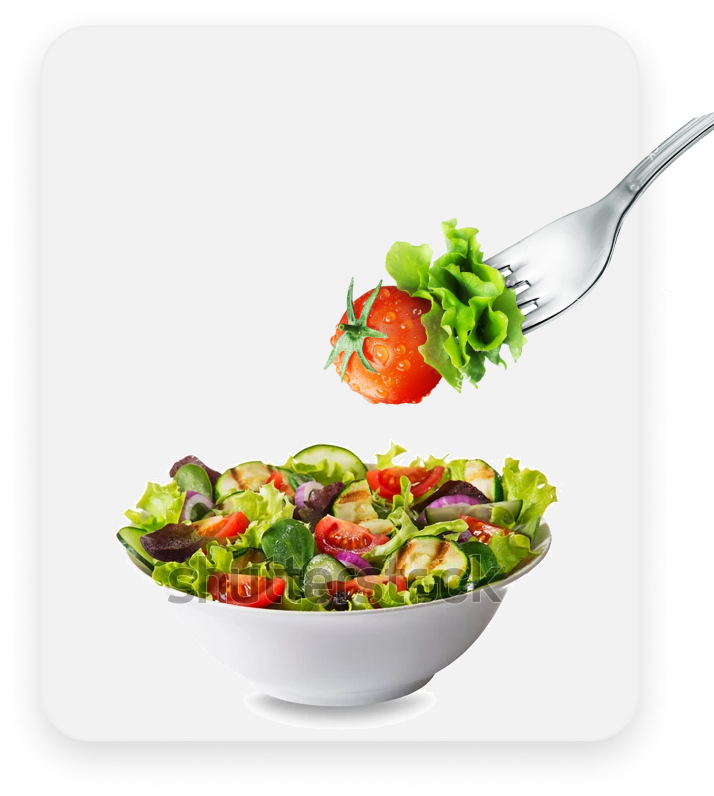
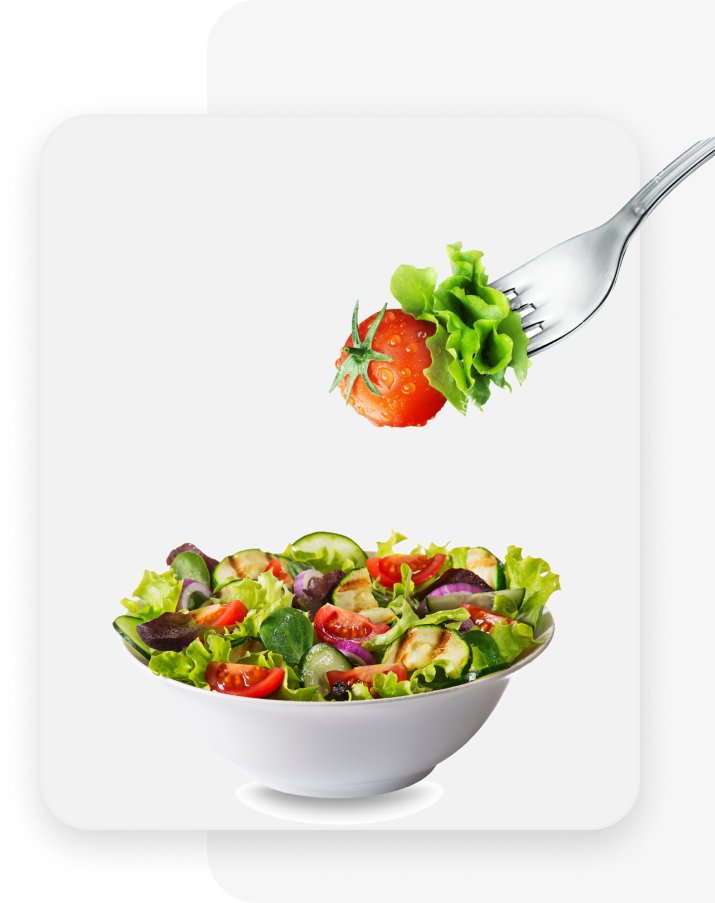
第二專欄文章，再改改背景

diff --git a/HP_col.html b/HP_col.html
@@ -9,103 +9,112 @@
 </head>
 <style>
     *{
-        border: 1px solid grey;
+        /* border: 1px solid #f2f2f2; */
     }
     body {
         height: 2000px;
         margin-top: 100px;
     }
-/* ---------- 文章1 ---------- */
+/* ---------- 1st文章 ---------- */
     .article1Warp{
-        display: flex;
-        justify-content: center;
-        position: relative;
-        width: 100%;
-        height: 1000px;
-
+        height: 50em;
     }
-
+        /* ---------- 1st文章_文字 ---------- */
     .hp_col_dec1Wrap{
         text-align: right;
+        margin: auto;
     }
+        /* ---------- 1st文章＿圖片 ---------- */
 
-    .hp_col_bgc1{
-        position: absolute;
-        right: 0;
-        bottom: 150px;
-        z-index: -1;
-    }
-
+    
     .hp_col_img1{
         position: absolute;
         right: 0;
-
+        margin-right: 0;
+        z-index: -1;
+        vertical-align: middle;
+    }
+    .hp_col_img1 img{
+        width: 100%;
+        max-height: 50em;
     }
 
+
+
 /* ---------- 文章2 ---------- */
-.article2Wrap{
-    display: flex;
-    justify-content: space-around;
-}
 .hp_col_img2Wrap img{
 width: 100%;
+max-width: 55em;
 }
 
-.hp_col_bgc2{
-    position: absolute;
-    left:0;
-    z-index: -1;
+.hp_col_img2Wrap .cardTxt {
+    background-color: #FFFCFC;
+    border-radius: 20px;
+    position: relative;
+    padding: 10px;
+    bottom: 40%;
+    left:40%;
+    max-width: 250px;
+    /* border: 1px solid grey; */
 }
-.hp_col_img2{
-    position: absolute;
-    left:100px;
+
+.hp_col_img2Wrap .cardTxt p{
+    margin: 0;
 }
+.article2Wrap .moreBtn{
+    margin: auto;
+
+}
+
 
 </style>
 
 <body>
-    <div class="HP_col">
- <!-------- 文章１-------->
-        <div class="article1Warp">
+    <div class="HP_col container-fluid">
+ <!-------- 1st 文章 -------->
+        <div class="article1Warp row">
 
         <!-------- 文章1__文字 -------->
-            <div class="hp_col_dec1Wrap">
+            <div class="hp_col_dec1Wrap col-7">
                 <p>首頁 / 聰明飲食</p>
-                  <h5>防疫在家最怕久坐不動！<br>
+                  <h1>防疫在家最怕久坐不動！<br>
                     注意飲食 三多三少 <br>
                     肥胖不上身
-                </h5>
+                </h1>
 
                 <p>by食力編輯部</p>
-                <button>完整文章</button>
+                <button type="button" class="btn btn-outline-success">完整文章</button>
             </div>
         <!-------- 文章1__圖片 -------->
-            <div class="hp_col_img1Wrap">
-                <div class="hp_col_bgc1"><img src="./img/hp_col_bgc1-2.png" alt=""></div>
-                <div class="hp_col_img1"><img src="./img/hp_col_img1-2.png" alt=""></div>
+            <div class="hp_col_img1Wrap col">
+                <div class="hp_col_img1"><img src="./img//hp_col_img1-2.png" alt=""></div>
             </div>
 
         </div>
-<!-------- 文章2 -------->
-        <div class="article2Wrap">
 
-        <!-------- 文章2__圖片 -------->
-            <div class="hp_col_img2Wrap">
-                <div class="hp_col_bgc2"><img src="./img/hp_col_bgc2-2.png" alt=""></div>
-                <div class="hp_col_img2"><img src="./img/hp_col_img2-2.png" alt=""></div>
-            </div>
-
-        <!-------- 文章2__文字 -------->
-            <div class="hp_col_dec2Wrap">
-                <h6>Most<br> Popular</h6>
+ <!-------- 2nd文章 -------->    
+ <div class="article2Wrap row">
+    <!-------- 文章2__圖片 -------->
+        <div class="hp_col_img2Wrap col">
+            <div><img src="./img/hp_col_img2-2.png" alt=""></div>
+            <div class="cardTxt">
+                <p>聰明飲食</p>
+                <h6>從歐美名人圈紅到台灣的康普茶，到底是什麼？  </h6>
 
             </div>
-            <div>
-                <span>more</span><img src="./img/hp_col_moreIcon.png" alt="">
-            </div>
-
-
         </div>
+
+    <!-------- 文章2__文字 -------->
+        <div class="hp_col_dec2Wrap col-3">
+            <h1>Most<br> Popular</h1>
+        </div>
+        <div class="col-3 moreBtn">
+            <span>more &ensp;</span><img src="./img/hp_col_moreIcon.png" alt="">
+        </div>
+        <div class="col-1"></div>
+
+</div>
+
 
     </div>
 

diff --git a/HP_shop.html b/HP_shop.html
@@ -25,13 +25,16 @@
     
     .fOrange{ color:#FB6107;}
     .fOrangeBgc{ background-color:#FB6107;}
+
+    .fwhite{color:#f2f2f2;}
+    .fwhiteBgc{background-color: #f2f2f2;}
     
     
     .hpShopCatWrap{
         margin-bottom: 50px;
     }
 
-/*---------- 首頁＿背景圖 ----------*/
+/*---------- 首頁＿商城＿背景圖 ----------*/
     .hp_bgcWrap{
         position: fixed;
         width: 100%;
@@ -58,7 +61,7 @@
         left: 0;
     }
 
-/*---------- 首頁＿商城＿圖片 ----------*/
+        /*----- 首頁＿商城＿圖片 -----*/
 
 .hpShopCatImg{
     text-align: center;
@@ -96,7 +99,7 @@
     }
     
 
-/*---------- 首頁＿商城＿種類＿文字 ----------*/
+        /*----- 首頁＿商城＿種類＿文字 -----*/
     .hpShopCatDes{
         margin: auto;
     }
@@ -117,9 +120,9 @@
     </div>
 
 
-
+<!------------ 首頁商城  ------------>
 <div class="hp_shop container">
-<!------------ 1st 商品種類  ------------>
+    <!------------ 1st 商品種類  ------------>
     <div  id="hp_shop_Cat_1" class="hpShopCatWrap row">
 
         <!------- 1st商品種類：圖片  ------->

diff --git a/test.html b/test.html
@@ -1,0 +1,18 @@
+ <!-------- 2nd文章 -------->    
+    <div class="article2Wrap row">
+        <!-------- 文章2__圖片 -------->
+            <div class="hp_col_img2Wrap col">
+                <div class="hp_col_bgc2"><img src="./img/hp_col_bgc2-2.png" alt=""></div>
+                <div class="hp_col_img2"><img src="./img/hp_col_img2-2.png" alt=""></div>
+            </div>
+
+        <!-------- 文章2__文字 -------->
+            <div class="hp_col_dec2Wrap col-2">
+                <h6>Most<br> Popular</h6>
+
+            </div>
+            <div class="col-2">
+                <span>more</span><img src="./img/hp_col_moreIcon.png" alt="">
+            </div>
+
+    </div>
